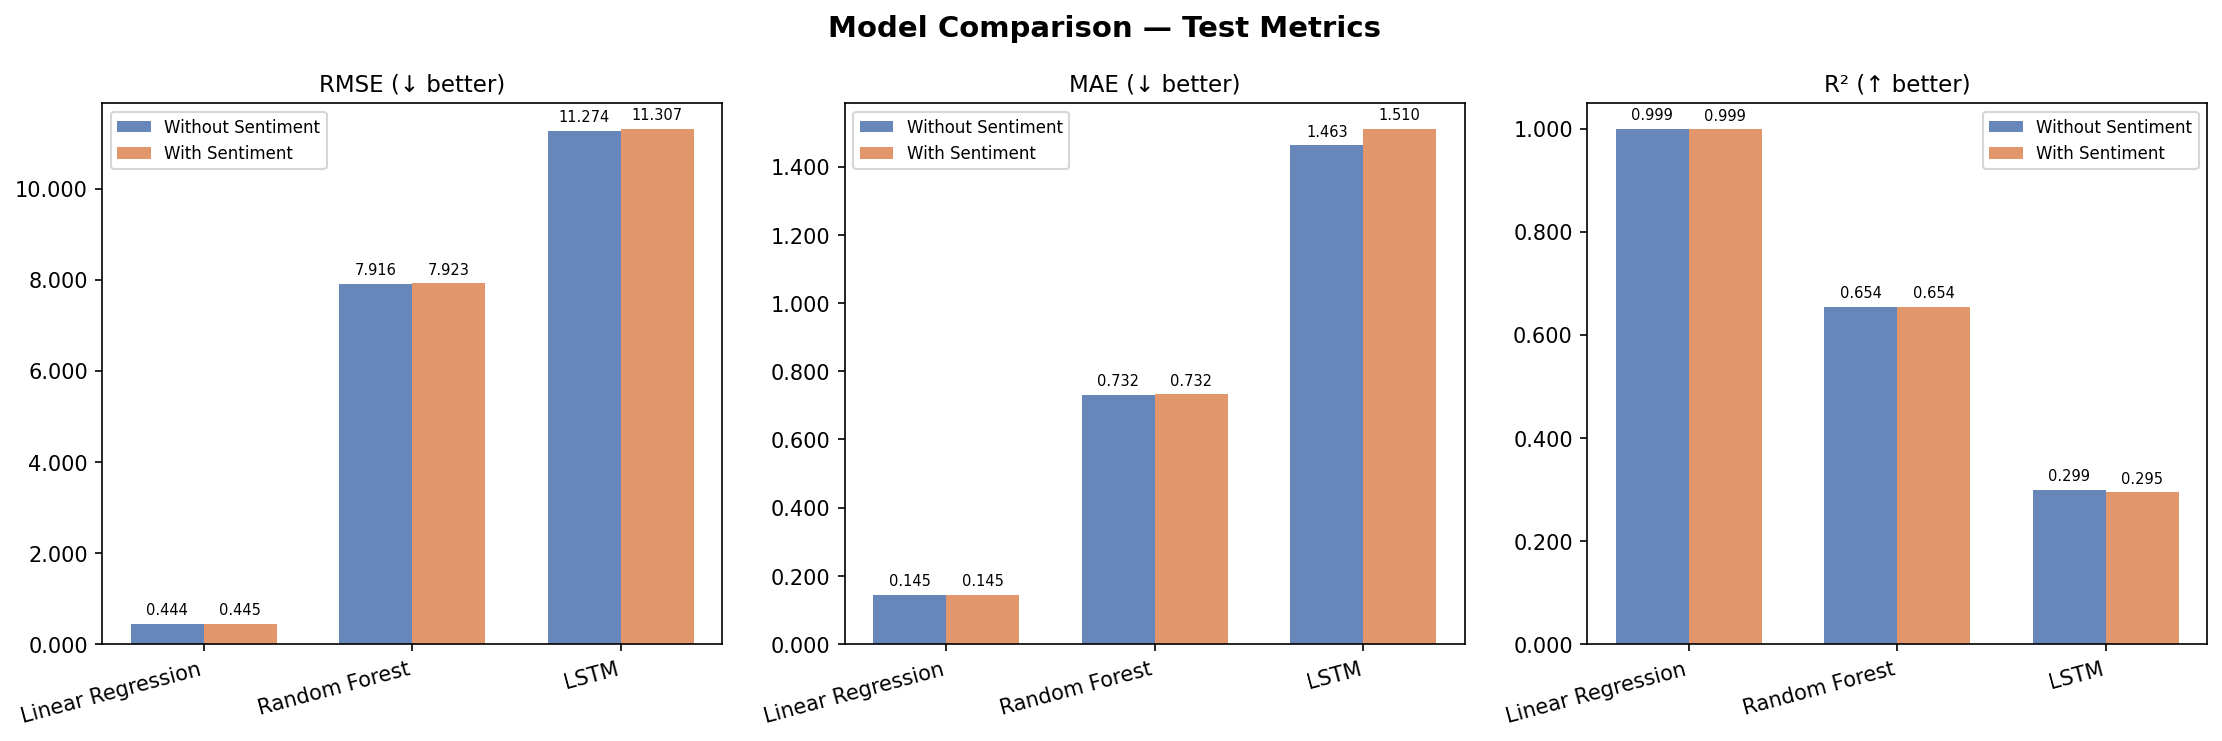
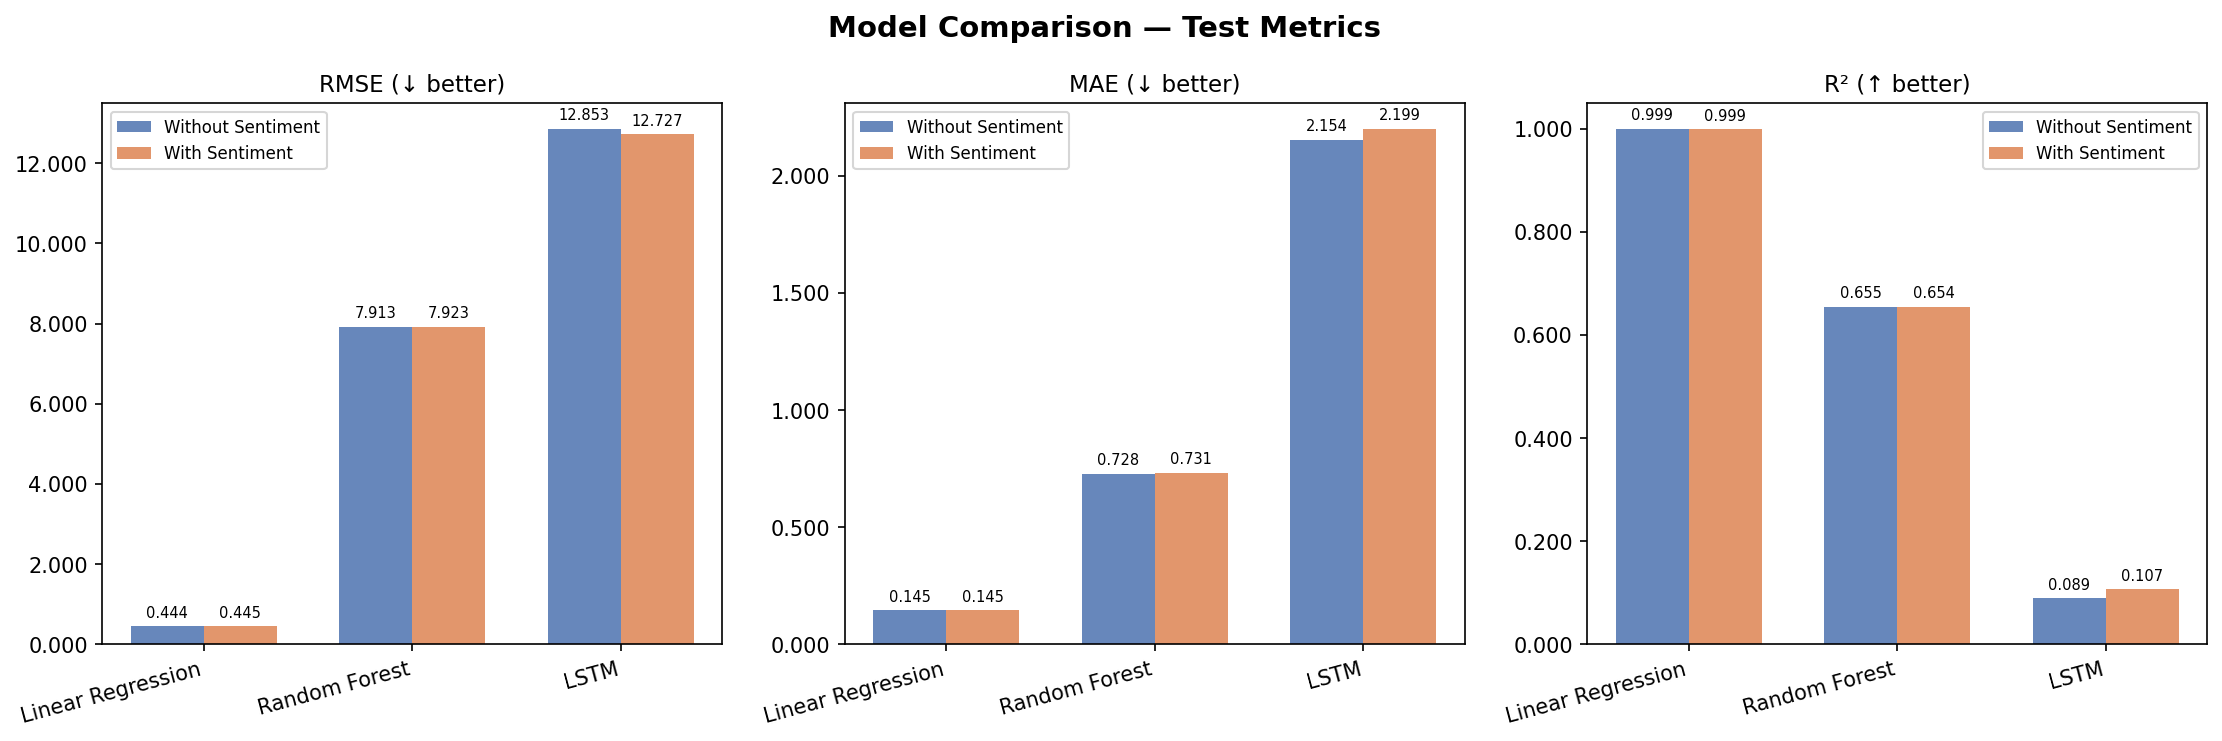
Add all the images

diff --git a/evaluate_all.py b/evaluate_all.py
@@ -27,7 +27,7 @@ from utils.reporter            import generate_report
 DEFAULT_CSV    = os.path.join(ROOT, "samples", "full_dataset_with_sentiment.csv")
 DEFAULT_REPORT = os.path.join(ROOT, "report.md")
 DEFAULT_PLOTS  = os.path.join(ROOT, "plots")
-LSTM_EPOCHS    = 10
+LSTM_EPOCHS    = 30
 
 
 # ── Runner helpers ────────────────────────────────────────────────────────────

diff --git a/models/lstm.py b/models/lstm.py
@@ -78,7 +78,7 @@ def evaluate(model: nn.Module, loader, device: torch.device, label: str = ""):
 def train(
     csv_path: str,
     with_sentiment: bool = True,
-    hidden_size: int = 64,
+    hidden_size: int = 16,
     num_layers: int = 2,
     dropout: float = 0.2,
     lr: float = 1e-5,

diff --git a/report.md b/report.md
@@ -1,6 +1,6 @@
 # Model Evaluation Report
 
-> Auto-generated on **2026-03-08 06:48:43**
+> Auto-generated on **2026-03-08 07:08:26**
 
 ## Overview
 
@@ -19,10 +19,10 @@ close-price prediction task, evaluated with and without Twitter sentiment featur
 |---|---|---|---|---|
 | Linear Regression | Without | 0.2351 | 0.1814 | 0.9989 |
 | Linear Regression | With | 0.2351 | 0.1814 | 0.9989 |
-| Random Forest | Without | 0.0125 | 0.0003 | 1.0000 |
-| Random Forest | With | 0.0123 | 0.0004 | 1.0000 |
-| LSTM | Without | 4.3406 | 0.8751 | 0.6308 |
-| LSTM | With | 4.3837 | 0.9044 | 0.6234 |
+| Random Forest | Without | 0.0116 | 0.0003 | 1.0000 |
+| Random Forest | With | 0.0120 | 0.0004 | 1.0000 |
+| LSTM | Without | 6.4472 | 1.6797 | 0.1854 |
+| LSTM | With | 6.2656 | 1.5689 | 0.2307 |
 
 ---
 
@@ -31,11 +31,11 @@ close-price prediction task, evaluated with and without Twitter sentiment featur
 | Model | Sentiment | RMSE ↓ | MAE ↓ | R² ↑ |
 |---|---|---|---|---|
 | Linear Regression | Without | 0.4439 | 0.1448 | 0.9989 |
-| Linear Regression | With | 0.4454 | 0.1449 | 0.9989 |
-| Random Forest | Without | 7.9156 | 0.7318 | 0.6544 |
-| Random Forest | With | 7.9225 | 0.7319 | 0.6538 |
-| LSTM | Without | 11.2737 | 1.4629 | 0.2990 |
-| LSTM | With | 11.3074 | 1.5103 | 0.2948 |
+| Linear Regression | With | 0.4455 | 0.1449 | 0.9989 |
+| Random Forest | Without | 7.9131 | 0.7281 | 0.6546 |
+| Random Forest | With | 7.9230 | 0.7308 | 0.6538 |
+| LSTM | Without | 12.8530 | 2.1541 | 0.0888 |
+| LSTM | With | 12.7274 | 2.1988 | 0.1065 |
 
 ---
 
@@ -47,8 +47,8 @@ For RMSE/MAE: negative Δ = improvement. For R²: positive Δ = improvement.
 | Model | ΔRMSE | ΔMAE | ΔR² |
 |---|---|---|---|
 | Linear Regression | +0.0015 ❌ | +0.0001 ❌ | -0.0000 ❌ |
-| Random Forest | +0.0069 ❌ | +0.0002 ❌ | -0.0006 ❌ |
-| LSTM | +0.0337 ❌ | +0.0475 ❌ | -0.0042 ❌ |
+| Random Forest | +0.0099 ❌ | +0.0028 ❌ | -0.0009 ❌ |
+| LSTM | -0.1256 ✅ | +0.0446 ❌ | +0.0177 ✅ |
 
 ---
 
@@ -56,8 +56,8 @@ For RMSE/MAE: negative Δ = improvement. For R²: positive Δ = improvement.
 
 | Variant | Final Train Loss | Final Val Loss |
 |---|---|---|
-| Without Sentiment | 20.459168 | 129.654149 |
-| With Sentiment | 20.826739 | 130.425589 |
+| Without Sentiment | 42.691293 | 168.227892 |
+| With Sentiment | 40.508198 | 164.977533 |
 
 ---
 
